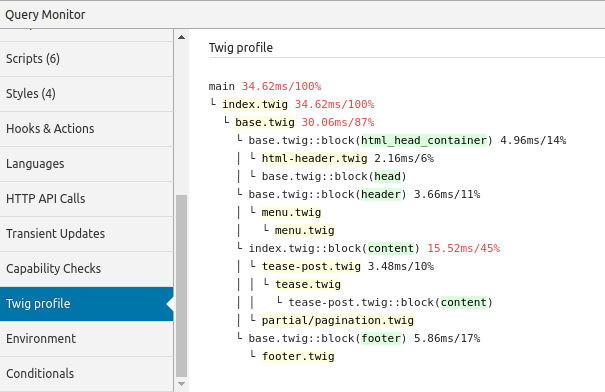
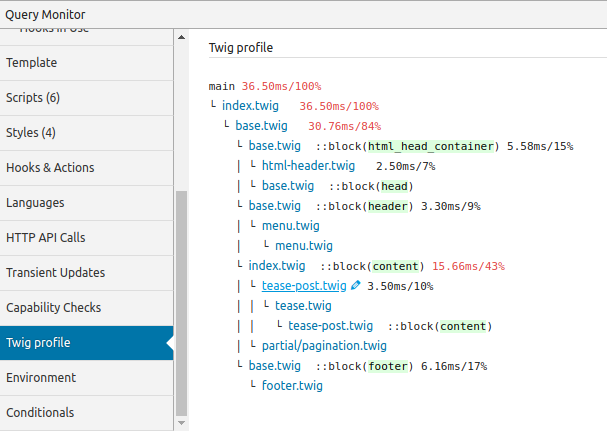
Fixes #7, adds clickable file links. (#20)

diff --git a/src/class-dumper.php b/src/class-dumper.php
@@ -7,6 +7,9 @@
 
 namespace Twig\Profiler\Dumper;
 
+use NdB\QM_Twig_Profile\Output;
+use QM_Output_Html;
+use Twig\Loader\LoaderInterface;
 use Twig\Profiler\Profile;
 
 /**
@@ -15,6 +18,13 @@ use Twig\Profiler\Profile;
  * It adds compatibility with QM's dark mode.
  */
 final class Dumper extends BaseDumper {
+	/**
+	 * The loader used for a template file in the twig environment that produced
+	 * the profile.
+	 *
+	 * @var LoaderInterface
+	 */
+	private $loader;
 
 	/**
 	 * Colors for rendering the profile dump.
@@ -32,6 +42,18 @@ final class Dumper extends BaseDumper {
 	);
 
 	/**
+	 * Sets the loader interface.
+	 *
+	 * Must be the loader that was in the environment at the time the profile
+	 * was produced.
+	 *
+	 * @param LoaderInterface $loader The loader.
+	 */
+	public function __construct( LoaderInterface $loader ) {
+		$this->loader = $loader;
+	}
+
+	/**
 	 * Returns the content of the profile.
 	 *
 	 * @param Profile $profile The twig profile to dump.
@@ -47,7 +69,22 @@ final class Dumper extends BaseDumper {
 	 * @param string  $prefix Indentation depth.
 	 */
 	protected function formatTemplate( Profile $profile, $prefix ):string {
-		return sprintf( '%s└ <span style="background-color: %s; color: %s">%s</span>', $prefix, self::$colors['template'], self::$colors['text-dark'], $profile->getTemplate() );
+		return sprintf( '%s└ <span>%s</span>', $prefix, $this->get_template_filename( $profile ) );
+	}
+
+	/**
+	 * Maybe formats the filename to a clickable file path.
+	 *
+	 * @param Profile $profile The Twig profile that the file is in.
+	 */
+	private function get_template_filename( Profile $profile ):string {
+		$template = $profile->getTemplate();
+		$source   = $this->loader->getSourceContext( $template );
+		$path     = $source->getPath();
+		if ( $path && QM_Output_Html::has_clickable_links() ) {
+			$template = QM_Output_Html::output_filename( $template, $path, 0, true );
+		}
+		return $template;
 	}
 
 	/**
@@ -57,7 +94,7 @@ final class Dumper extends BaseDumper {
 	 * @param string  $prefix Indentation depth.
 	 */
 	protected function formatNonTemplate( Profile $profile, $prefix ):string {
-		return sprintf( '%s└ %s::%s(<span style="background-color: %s; color: %s">%s</span>)', $prefix, $profile->getTemplate(), $profile->getType(), isset( self::$colors[ $profile->getType() ] ) ? self::$colors[ $profile->getType() ] : self::$colors['auto'], self::$colors['text-dark'], $profile->getName() );
+		return sprintf( '%s└ %s::%s(<span style="background-color: %s; color: %s">%s</span>)', $prefix, $this->get_template_filename( $profile ), $profile->getType(), isset( self::$colors[ $profile->getType() ] ) ? self::$colors[ $profile->getType() ] : self::$colors['auto'], self::$colors['text-dark'], $profile->getName() );
 	}
 
 	/**

diff --git a/src/class-output.php b/src/class-output.php
@@ -14,6 +14,14 @@ use Twig\Profiler\Dumper\Dumper;
  * Formats the output data for a QM panel.
  */
 final class Output extends QM_Output_Html {
+	const EDITOR_PROTOCOLS = array(
+		'phpstorm',
+		'vscode',
+		'atom',
+		'subl',
+		'txmt',
+		'nbopen',
+	);
 
 	/**
 	 * Adds the twig profile panel to the menu.
@@ -44,14 +52,14 @@ final class Output extends QM_Output_Html {
 		if ( ! $collector instanceof Collector ) {
 			return;
 		}
-		$profiles = $collector->get_all();
+		$environment_profiles = $collector->get_all();
 		?>
 		<div class="qm qm-non-tabular" id="qm-twig_profile">
 			<div class='qm-boxed'>
 				<h2><?php echo esc_html__( 'Twig profile', 'ndb_qm_twig' ); ?></h2>
 			</div>
 			<?php
-			if ( empty( $profiles ) ) {
+			if ( empty( $environment_profiles ) ) {
 				echo '<div class="qm-boxed">';
 				echo '<section>';
 				?>
@@ -61,11 +69,11 @@ final class Output extends QM_Output_Html {
 				echo '</div>';
 			} else {
 				require_once 'class-dumper.php';
-				foreach ( $profiles as $profile ) {
+				foreach ( $environment_profiles as $environment_profile ) {
 					echo '<div class="qm-boxed">';
 					echo '<section>';
-					$dumper = new Dumper();
-					echo wp_kses( $dumper->dump( $profile ), wp_kses_allowed_html( 'post' ) );
+					$dumper = new Dumper( $environment_profile->environment->getLoader() );
+					echo wp_kses( $dumper->dump( $environment_profile->profile ), wp_kses_allowed_html( 'post' ), self::EDITOR_PROTOCOLS );
 					echo '</section>';
 					echo '</div>';
 				}

diff --git a/query-monitor-twig-profile.php b/query-monitor-twig-profile.php
@@ -27,6 +27,7 @@ use Twig\Profiler\Profile;
  */
 function register_collector( array $collectors ) {
 	require_once __DIR__ . '/src/class-collector.php';
+	require_once __DIR__ . '/src/class-environment-profile.php';
 	$collectors['twig_profile'] = new Collector();
 	return $collectors;
 }
@@ -57,11 +58,12 @@ add_filter( 'qm/outputter/html', 'NdB\QM_Twig_Profile\render' );
  * @return \Twig\Environment
  */
 function collect_timber( Environment $twig ):Environment {
-	$profile = new Profile();
+	$profile             = new Profile();
+	$environment_profile = new Environment_Profile( $twig, $profile );
 	$twig->addExtension( new ProfilerExtension( $profile ) );
 	$collector = QM_Collectors::get( 'twig_profile' );
 	if ( $collector instanceof Collector ) {
-		$collector->add( $profile );
+		$collector->add( $environment_profile );
 	}
 	return $twig;
 }

diff --git a/src/class-environment-profile.php b/src/class-environment-profile.php
@@ -1,0 +1,41 @@
+<?php
+/**
+ * Matches a profile to the environment it was produced in.
+ *
+ * @package NdB\QM_Twig_Profile
+ */
+
+namespace NdB\QM_Twig_Profile;
+
+use Twig\Environment;
+use Twig\Profiler\Profile;
+
+/**
+ * Data object to combine environments and profiles.
+ */
+class Environment_Profile {
+	/**
+	 * The Twig environment the profile was produced in.
+	 *
+	 * @var Environment
+	 */
+	public $environment;
+
+	/**
+	 * The Twig profile.
+	 *
+	 * @var Profile
+	 */
+	public $profile;
+
+	/**
+	 * Sets the data object properties.
+	 *
+	 * @param Environment $twig The active Twig environment.
+	 * @param Profile     $profile The profile.
+	 */
+	public function __construct( Environment $twig, Profile $profile ) {
+		$this->environment = $twig;
+		$this->profile     = $profile;
+	}
+}

diff --git a/src/class-collector.php b/src/class-collector.php
@@ -23,24 +23,24 @@ final class Collector extends \QM_Collector {
 	/**
 	 * Store of Twig profile objects.
 	 *
-	 * @var array<int, \Twig\Profiler\Profile> $profiles
+	 * @var array<int, Environment_Profile> $profiles
 	 */
 	private $profiles = array();
 
 	/**
 	 * Add a twig profile to the store.
 	 *
-	 * @param \Twig\Profiler\Profile $profile A twig profile.
+	 * @param Environment_Profile $profile A twig profile.
 	 * @return void
 	 */
-	public function add( Profile $profile ) {
+	public function add( Environment_Profile $profile ) {
 		$this->profiles[] = $profile;
 	}
 
 	/**
 	 *  Retrieves all profiles in the store.
 	 *
-	 * @return array<int, \Twig\Profiler\Profile>
+	 * @return array<int, Environment_Profile>
 	 */
 	public function get_all() {
 		return $this->profiles;
